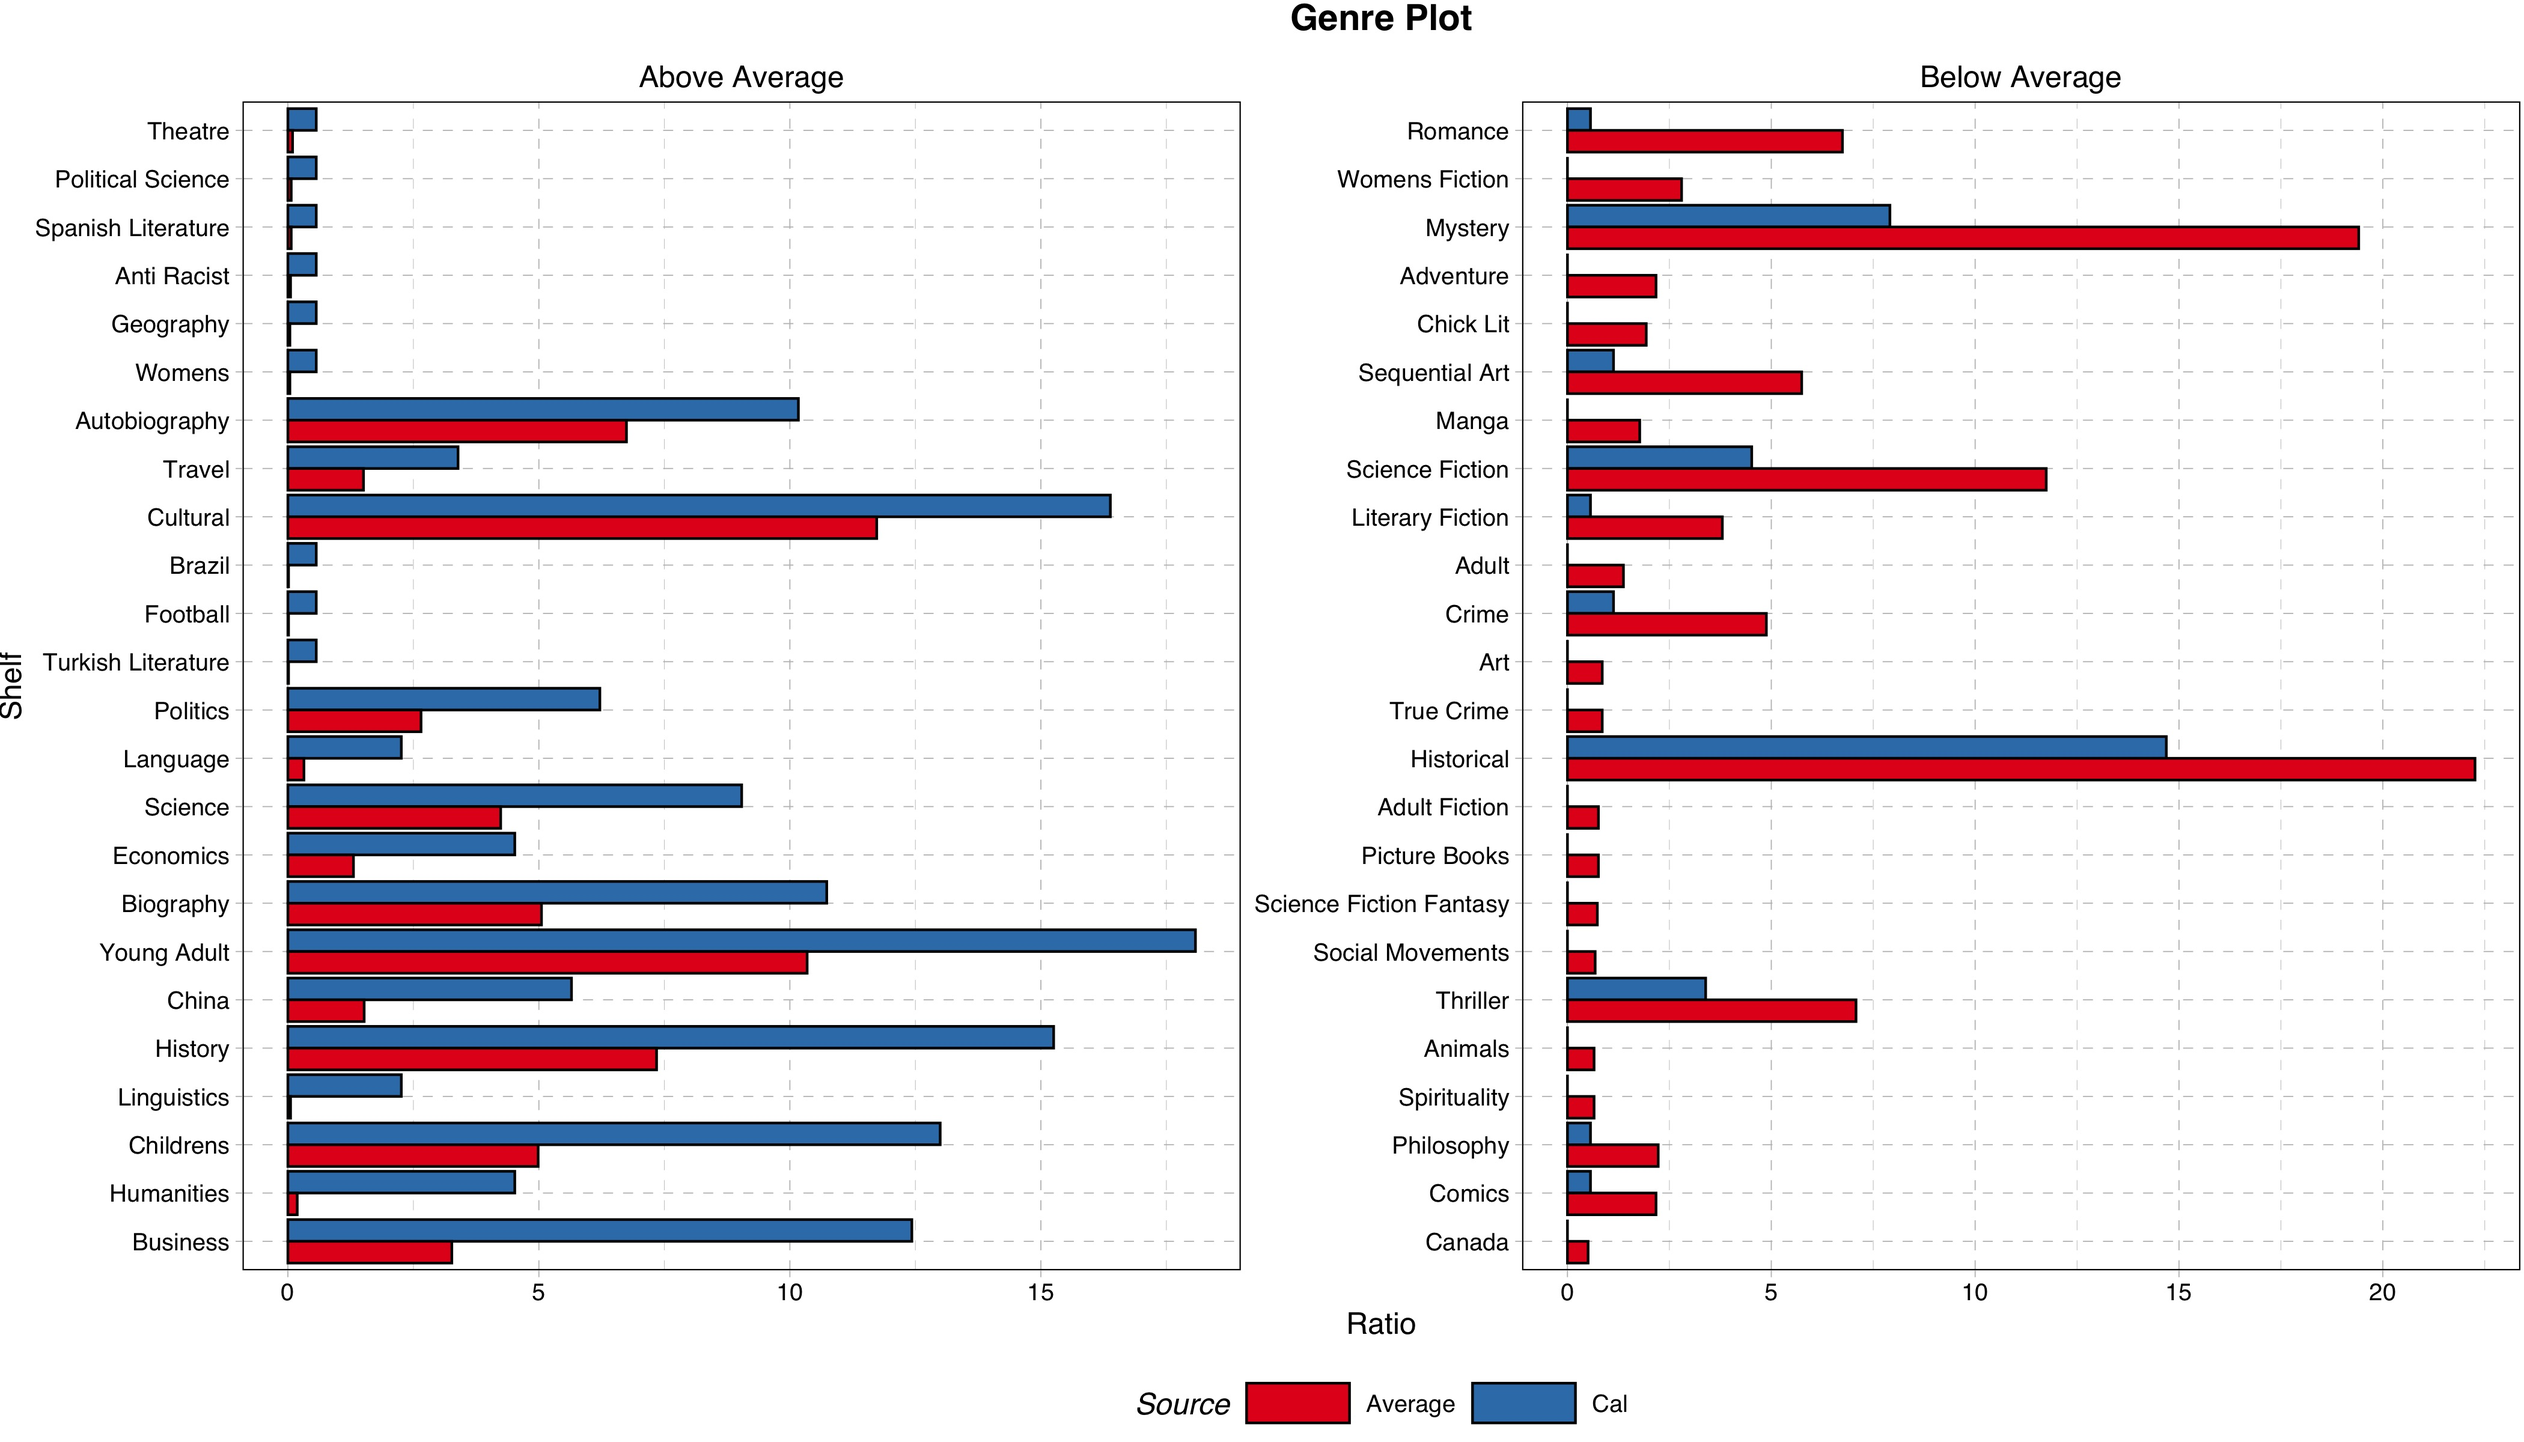
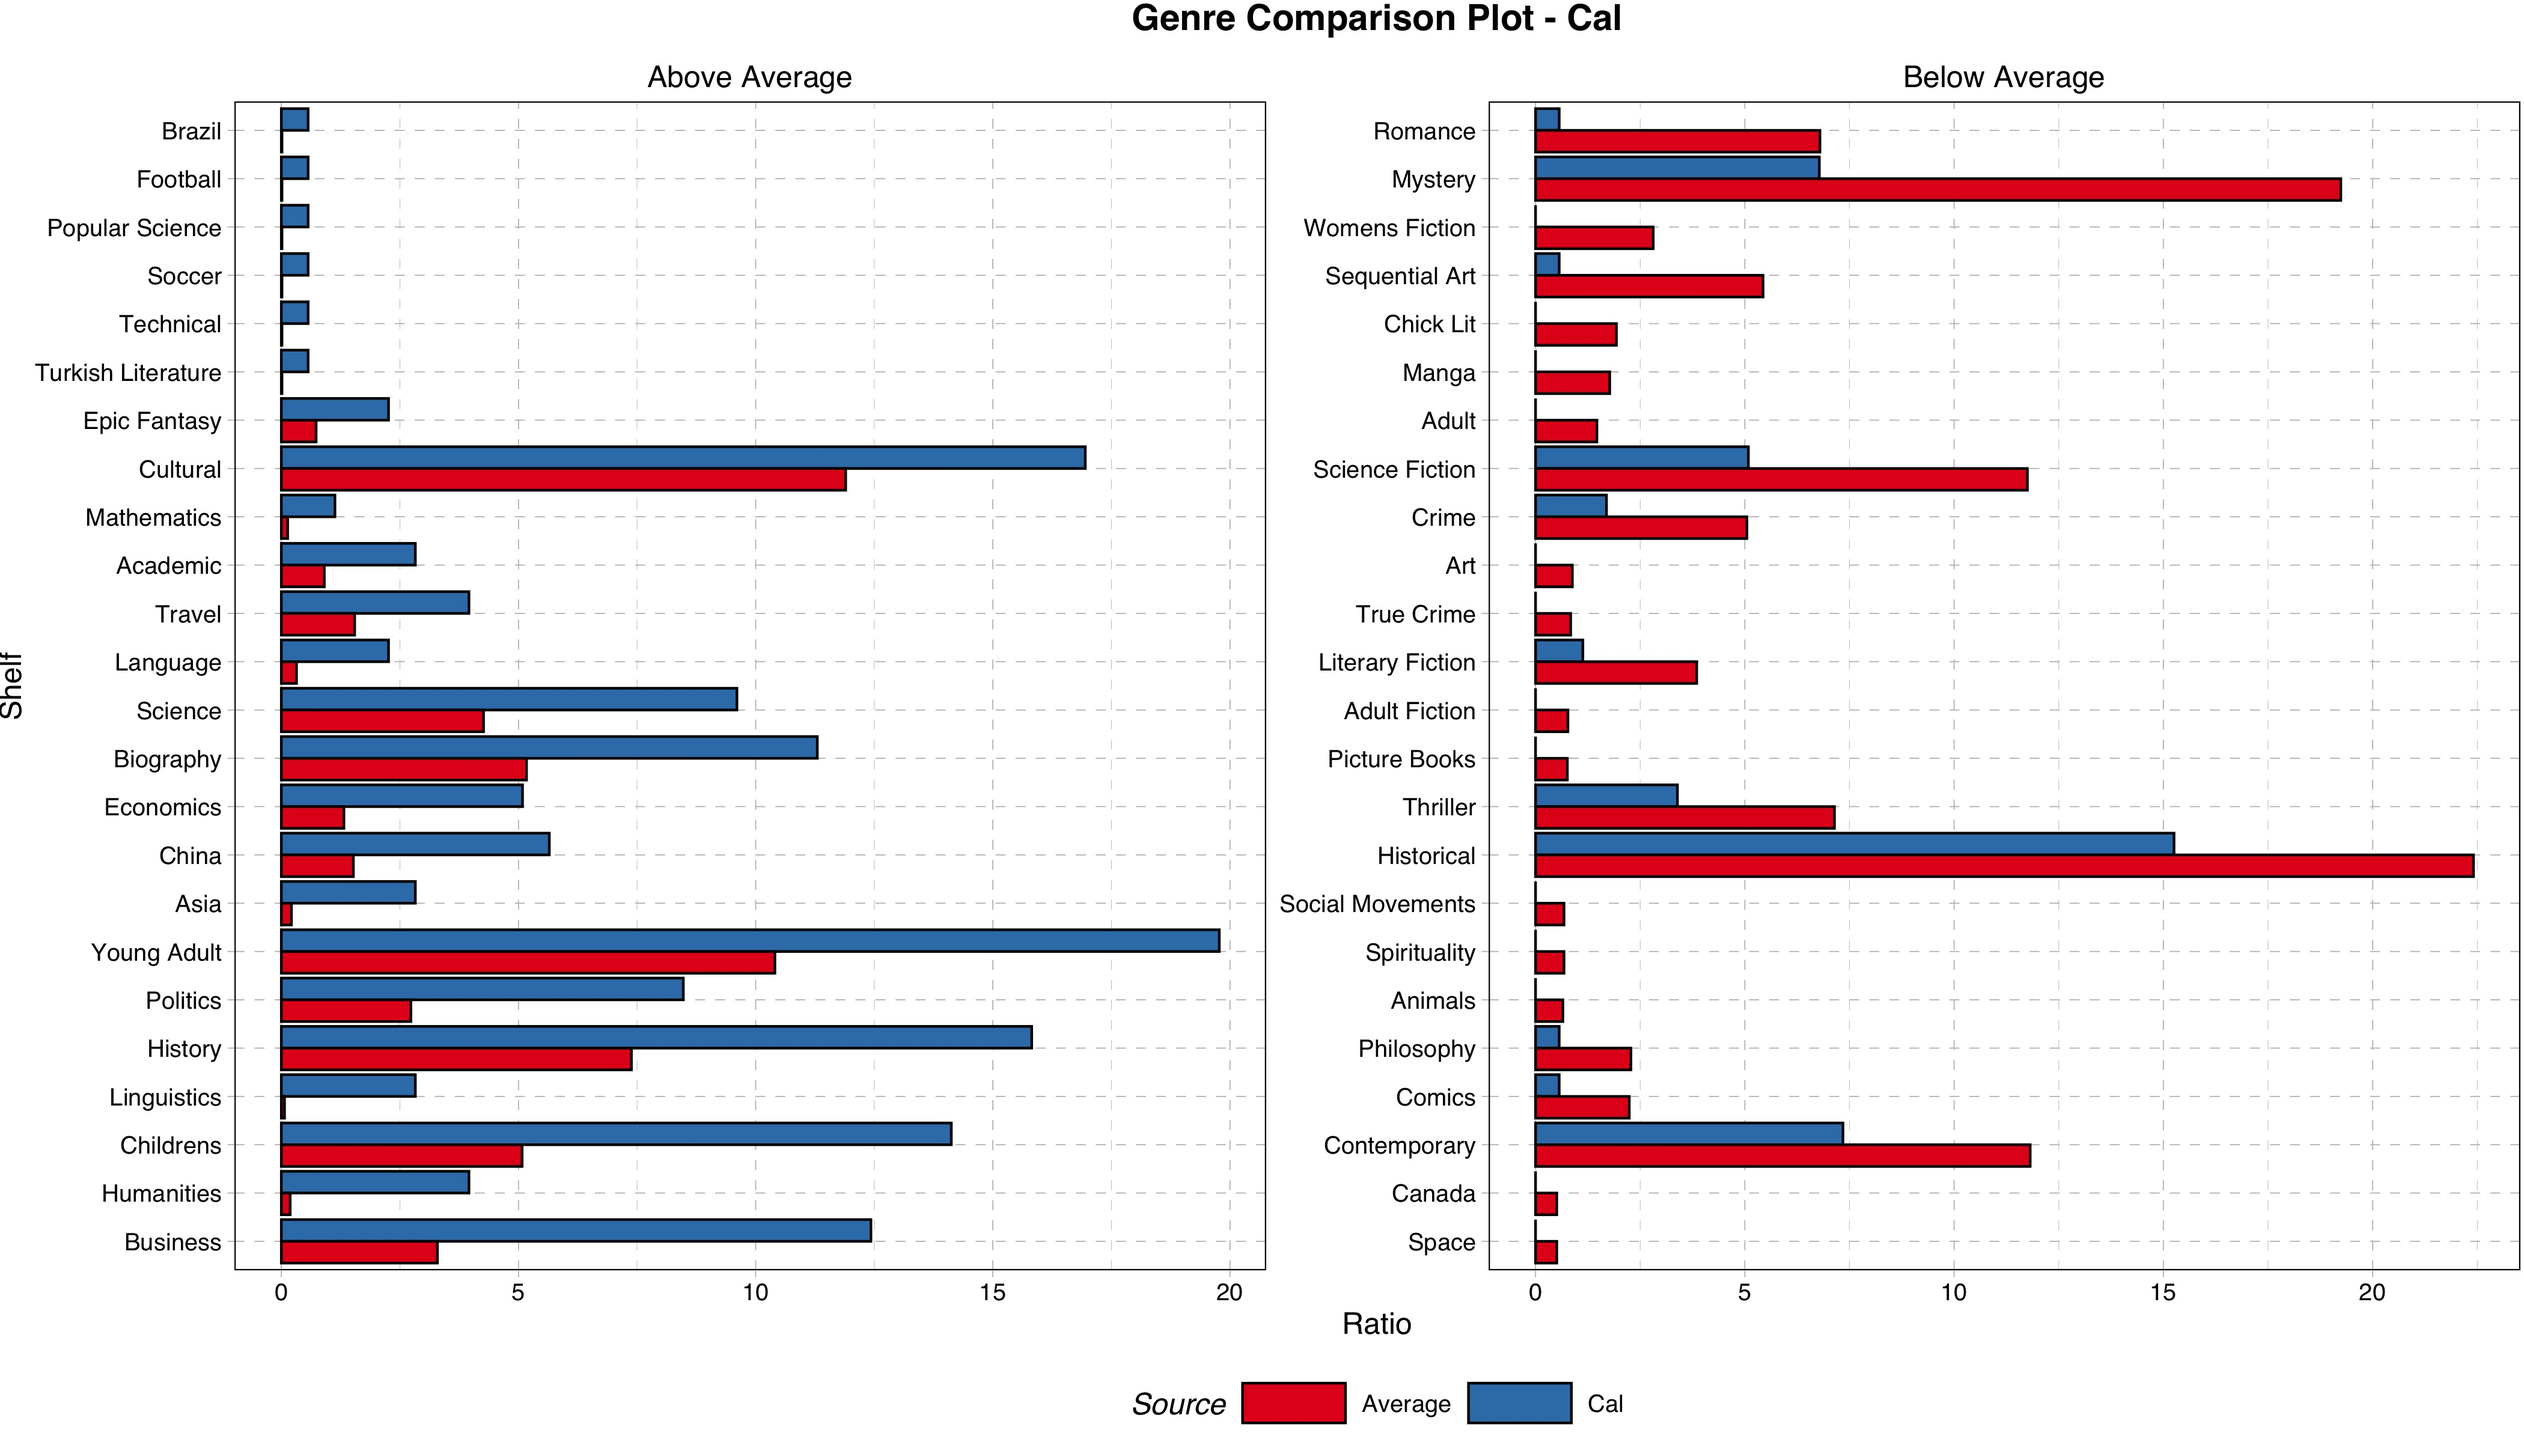
feat: minor updates, new artifacts
Code comments, deleting unnecessary lines

diff --git a/Books/append_to_export.py b/Books/append_to_export.py
@@ -9,6 +9,10 @@ logging.basicConfig(level=logging.INFO)
 logger = logging.getLogger(__name__)
 
 def append_scraping(goodreads_data):
+    """
+    Take data meant to be in the Goodreads export format
+    Scrape additional fields and add them as columns
+    """
     goodreads_data.columns = [c.replace(" ", ".") for c in goodreads_data.columns]
     urls = scrape_goodreads.return_urls(goodreads_data)
     scraped_df = scrape_goodreads.apply_added_by(urls)
@@ -52,7 +56,7 @@ def update_goodreads(df1, df2, index_column):
     return df_updated
 
 
-def update_missing_data(df, wait=1):
+def update_missing_data(df, wait=3):
     """
     This function is for incomplete appends, when rows failed due to timeouts
     """

diff --git a/Books/scrape_goodreads.py b/Books/scrape_goodreads.py
@@ -139,11 +139,8 @@ def get_stats(url, wait=0):
 
 
 def create_url(id, name):
-    # formatted_name = name.replace(" ", "_")
-    # formatted_name = formatted_name.replace("'", "-")
-    # formatted_name = formatted_name.split(":")[0]
-    # formatted_name = formatted_name.split("(")[0]
-    return "https://www.goodreads.com/book/show/" + str(id)  # + "." + formatted_name
+
+    return "https://www.goodreads.com/book/show/" + str(id) 
 
 
 def read_goodreads_export(file_path):

diff --git a/Books/Graphs/plot_summary.MD b/Books/Graphs/plot_summary.MD
@@ -1,6 +1,8 @@
-Plot Summaries:
+# Plot Summaries:
 
 *finish_plot*: This shows the books that you have read that are least commonly marked as "read" on Goodreads. This may mean they are hard to read, or perhaps some people lost interest, or perhaps they were recently published
+
+*genre_comparison_plot*: This takes a look at the top "shelves", which are crowd-sourced on Goodreads and which I call genres, for each book. A ratio of genre/total read books is calculated for the user and for overall (all users in the database) to create an average comparison
 
 *monthly_pages_read*: This shows the books that you have read and the month you read them. The color is the gender of the author (this is automated, so there are often mistakes), the height is the number of pages of each book. The month comes from the date read as marked on Goodreads.
 
@@ -12,4 +14,4 @@ Plot Summaries:
 
 *summary_plot*: 4 basic plots, 1) showing gender split and fiction vs non-fiction split. 2) histogram of the original publication dates of your books. 3) the most popular-rated books amongst your library, colored in by your personal rating (0 means not read) 4) the most common genres that you have read (crowd-sourced from Goodreads shelves)
 
-*yearly_pages_read*: Similar to the monthly_pages_read plot, but on a year scale. Non-fiction books are above the 0 line, fiction books below it.
+*yearly_pages_read*: Similar to the monthly_pages_read plot, but on a year scale. Non-fiction books are above the 0 line, fiction books below it, hence there are negative values on the y-axis.
